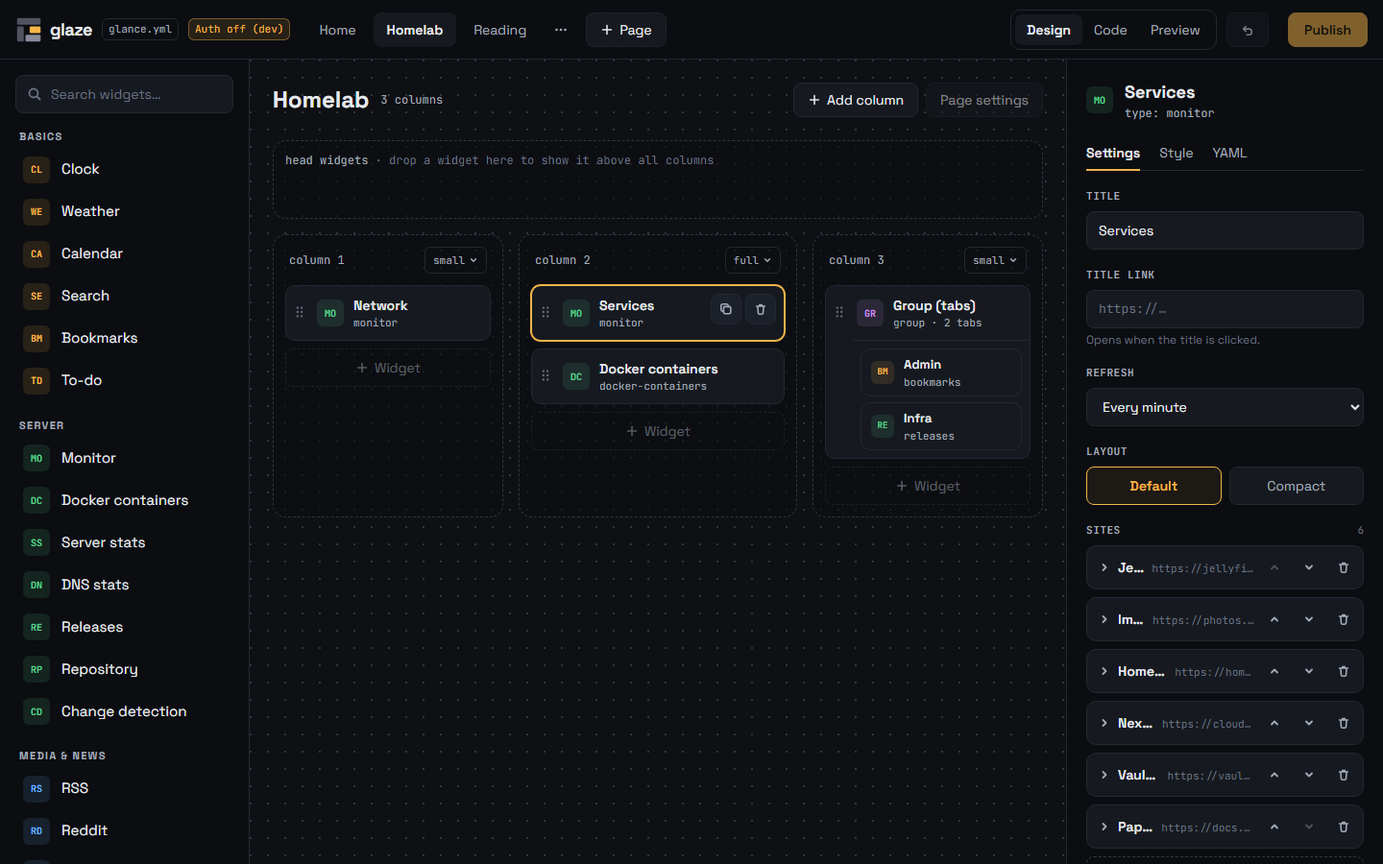
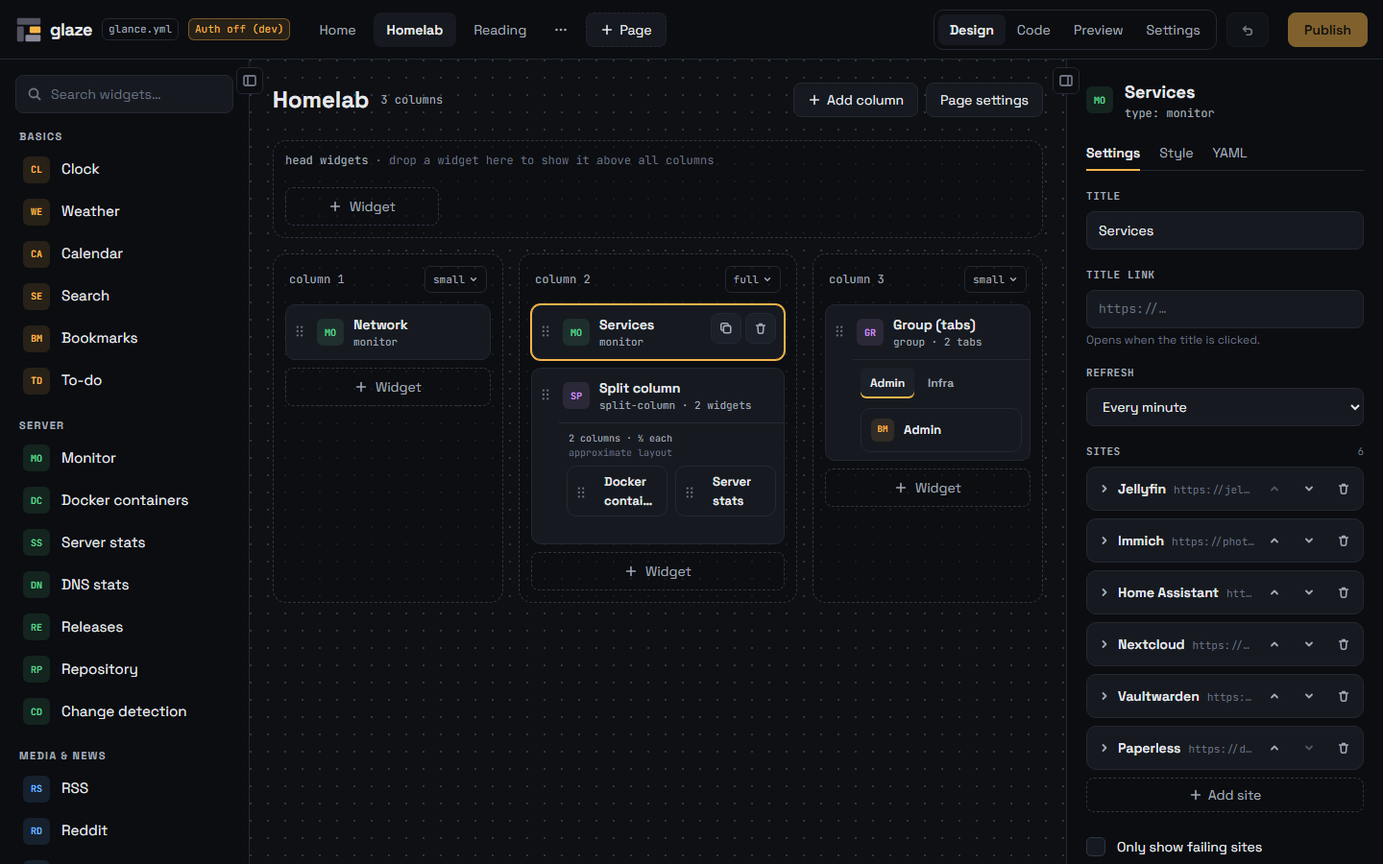
docs: phase 6, the complete visual editor
DESIGN.md gets phase 6 in the roadmap, the generated schemas under §8,
the Glance facts the generator relies on, widget width moved out of the
Extras, and the answer to the one-widget split-column question. README,
CHANGELOG and the development guide follow; the screenshots are re-taken
with a split-column in the demo config.

diff --git a/docs/DESIGN.md b/docs/DESIGN.md
@@ -1,6 +1,6 @@
 # Glaze: design document
 
-> Status: v0.1.0 · phases 0–5 done
+> Status: v0.1.2 · phases 0–6 done
 > Target: Glance **v0.8.7**
 
 ---
@@ -65,9 +65,16 @@ These facts come from the Glance v0.8.7 source (`github.com/glanceapp/glance`). 
 **Special widgets**
 
 - `group`: widgets as tabs. No `group` or `split-column` inside it. Children automatically get `hide-header`.
-- `split-column`: widgets side by side, with `max-columns` (minimum 2).
+- `split-column`: widgets side by side, with `max-columns` (Glance raises anything below 2 to 2). It draws `max-columns` equal-width columns and places the widgets as masonry (each in the shortest column), collapsing to one column on narrow screens. One widget in a split-column is valid: it takes 1/`max-columns` of the width.
 - `custom-api`: `url` (optional!), `method`, `headers`, `parameters`, `body`, `body-type`, `skip-json-validation`, `subrequests`, `options`, `template`, `frameless`. Glance waits at most 5 seconds for a response (not configurable). Templates have functions such as `now`, `offsetNow`, `parseTime`, `formatTime`, `sortByTime`, `findSubmatch`, `concat`, `add`/`sub`/`mul`/`div`/`mod` and `.Options.StringOr`.
 - `docker-containers`: `containers:` sets labels per container name (icon, description, url…) without touching Docker labels.
+
+**Defaults and checks that live in code, not in struct tags** (examples; the generator in §8 reads them)
+
+- Most defaults and enum checks are in each widget's `initialize()`: e.g. `limit <= 0` becomes 15, `sort-by` outside `top`/`new`/`best` becomes `top`, a missing `location` is an error.
+- dns-stats: an empty `service` is an error in v0.8.7 (the docs name `pihole` as the default).
+- iframe: a missing `height` ends up as 50 px (the docs say 300).
+- `glance password:hash` uses bcrypt with Go's default cost (10) and refuses passwords under 6 characters; `glance secret:make` prints 64 random bytes as standard base64. User names need at least 3 characters.
 
 **Other capabilities**
 
@@ -122,7 +129,7 @@ These facts come from the Glance v0.8.7 source (`github.com/glanceapp/glance`). 
 
 ### v0.2
 
-- All widgets, with forms generated automatically from the Glance source (§8).
+- All widgets, with forms generated automatically from the Glance source (§8). **Done in phase 6** (below).
 - Library of custom CSS presets (for example a "dark cards" style).
 - "Edit page" button in Glance via `document.head`.
 - Undo/redo and a version history (`.glaze/history/`).
@@ -133,22 +140,33 @@ These facts come from the Glance v0.8.7 source (`github.com/glanceapp/glance`). 
 - Templates ("Calm", "Homelab", "Media").
 - Secrets management: keys as `${VAR}` in a `.env` file, never as plain text in the YAML.
 
+### Phase 6: the complete visual editor (done)
+
+Nothing requires YAML any more; the code view stays as an escape hatch.
+
+- **Forms for every option** Glance v0.8.7 reads: all 28 widget types (`@glaze/schemas`, §8), page settings in the inspector, and a Settings view for the global sections (server, login, document head, branding, theme with presets). Unknown keys are kept and listed under "Other options".
+- **Glance's login** from the Settings view: users, passwords stored as bcrypt `password-hash` (Glance's `password:hash` when available, otherwise bcrypt at Glance's cost), and a secret key made like `glance secret:make`.
+- **Widget width** through `split-column` (moved here from the Extras): drop a widget on the left or right edge of another to put them side by side; a selected widget in a split-column has a handle that snaps to ½ / ⅓ / ¼ (`max-columns` 2 / 3 / 4); the Style tab has the same as buttons. Every widget in a split-column shares the width (Glance draws equal columns), and the editor says so. A split-column left with one widget after a drag is dissolved, with a notice that can undo that. No split-columns inside a group or in head widgets, and no resizing inside a group.
+- **Column width:** dragging the edge between page columns switches `small` ↔ `full` where Glance's rule (1 or 2 full columns) allows it, and says why when it doesn't.
+- **Drag & drop without flicker:** the drop indicator is drawn over the lists (never in the layout) from measured rects, with hysteresis around midpoints and list edges.
+- **Resizable, collapsible side panels**, remembered per browser.
+- **Plain-language validation:** a missing required option blocks Publish with a sentence ("Weather needs a location") instead of Glance's raw error.
+
 ### Extras (final phase)
 
 Three bigger tools that build on the editor. Each one still compiles down to plain Glance config (YAML + one CSS file), so principle 3 holds: nothing Glaze makes needs Glaze to keep working.
 
-**1. Widget size: width and height inside a column**
+**1. Widget height inside a column**
 
-Glance has no size options per widget (§4), so Glaze translates sizes into things Glance does understand:
+Glance has no size options per widget (§4). Width is done (through `split-column`, phase 6); height is translated into something Glance does understand:
 
-- **Width** → `split-column`. Dragging a widget's right edge snaps to _full / ½ / ⅓_ of the column. Glaze then wraps the widget and its neighbour(s) in a `split-column` with the matching `max-columns`, or unwraps it again when the widget goes back to full width. The canvas shows the snap points while dragging.
 - **Height** → `css-class` + generated CSS. Dragging the bottom edge snaps to _auto / S / M / L / XL_ (or a custom px value in the inspector). Glaze adds a class such as `glaze-h-320` to the widget's `css-class` (keeping any classes that were already there) and writes the rule to a **Glaze-managed CSS file** (`assets/glaze.css`, linked through `theme.custom-css-file` or appended to an existing custom CSS file between `/* glaze:start */ … /* glaze:end */` markers):
 
   ```css
   .glaze-h-320 .widget-content { height: 320px; overflow-y: auto; }
   ```
-- Rules: no resizing inside `group` (tabs share one height), `split-column` keeps Glance's limits, and unused generated classes are cleaned up on Publish.
-- The inspector's Style tab gets the same controls (width segmented control, height select + px input) for keyboard users.
+- Rules: no resizing inside `group` (tabs share one height), and unused generated classes are cleaned up on Publish.
+- The inspector's Style tab gets the same control (height select + px input) for keyboard users, next to the width buttons from phase 6.
 
 **2. Widget builder**
 
@@ -197,7 +215,7 @@ Like the theme generators of daisyUI or shadcn/ui, but for Glance's theme option
 2. **Code + live preview:** the YAML editor on the left with file tabs (`glance.yml`, `custom.css`, `design.js`), syntax highlighting and inline errors ("unknown option `stlye`: did you mean `style`? [Fix]"). Live preview on the right with a desktop/phone toggle. Clicking a widget in the preview jumps to it in the code.
 3. **Users:** list of users with role, visible pages and the status of their Glance instance. Detail panel with username, password, a checkbox per page, a starting template and "Edit layout".
 4. **Button in Glance:** an "Edit page" pill next to the status label, with a tooltip. Opens Glaze directly on that page.
-5. **Widget size (in the editor):** a selected widget gets resize handles on its right and bottom edges. While dragging, snap lines show ½ / ⅓ width and S–XL height, with a small label ("½ · 320px").
+5. **Widget size (in the editor):** a selected widget in a split-column has a handle on its right edge that snaps to ½ / ⅓ / ¼ with a label ("⅓ · 3 columns"); done in phase 6. A bottom handle for S–XL height follows with the Extras.
 6. **Widget builder:** same three-panel layout as the editor (block library, canvas, inspector with Data / Block / Template tabs) plus a JSON explorer under the Data tab. Top bar: widget name, column-width toggle, "Fetch sample", **Save** and "Add to page".
 7. **Theme editor:** preset list on the left, a sample Glance page in the middle, and color pickers + sliders on the right. Top bar: dark/light and desktop/phone toggles, Import, Export and **Publish**.
 
@@ -241,19 +259,19 @@ Browser
 
 ## 8. Tech stack
 
-| Part         | Choice                                  | Why                                                                               |
-| ------------ | --------------------------------------- | --------------------------------------------------------------------------------- |
-| Language     | TypeScript (strict)                     | Types catch mistakes in the config structure.                                     |
-| Frontend     | React 19 + Vite                         | Fast to develop; Vite produces a static build the Node server can serve.          |
-| Drag & drop  | `@dnd-kit/core` + `@dnd-kit/sortable`   | The standard for sortable drag & drop in React, accessible and keyboard-friendly. |
-| State        | Zustand                                 | Simple, little boilerplate. Undo/redo via middleware (`zundo`).                   |
-| YAML         | npm `yaml` (eemeli), **Document API**   | Keeps comments, anchors and order when editing (`doc.setIn([...], value)`).       |
-| Forms        | React Hook Form + Zod                   | One Zod schema per widget that both validates and drives the form.                |
-| Code editor  | CodeMirror 6 + `@codemirror/lang-yaml`  | Lighter than Monaco; per-line error markers.                                      |
-| Backend      | Node + Hono                             | Small and fast, TypeScript end to end.                                            |
-| Auth (Glaze) | Signed session cookie + scrypt hash     | Glaze writes config, so it always sits behind a login (see §9).                   |
-| Tests        | Vitest (+ Playwright for the editor)    | Above all: "parse → edit → serialize changes nothing else".                       |
-| Deployment   | Docker multi-stage build → single image | One container next to Glance; compose example in the README.                      |
+| Part         | Choice                                       | Why                                                                                |
+| ------------ | -------------------------------------------- | ---------------------------------------------------------------------------------- |
+| Language     | TypeScript (strict)                          | Types catch mistakes in the config structure.                                      |
+| Frontend     | React 19 + Vite                              | Fast to develop; Vite produces a static build the Node server can serve.           |
+| Drag & drop  | `@dnd-kit/core` + own drop geometry          | dnd-kit for sensors, keyboard and announcements; targets come from measured rects. |
+| State        | Zustand                                      | Simple, little boilerplate. Undo/redo via middleware (`zundo`).                    |
+| YAML         | npm `yaml` (eemeli), **Document API**        | Keeps comments, anchors and order when editing (`doc.setIn([...], value)`).        |
+| Forms        | React Hook Form + Zod, from `@glaze/schemas` | Generated schemas drive both the form and its Zod validation.                      |
+| Code editor  | CodeMirror 6 + `@codemirror/lang-yaml`       | Lighter than Monaco; per-line error markers.                                       |
+| Backend      | Node + Hono                                  | Small and fast, TypeScript end to end.                                             |
+| Auth (Glaze) | Signed session cookie + scrypt hash          | Glaze writes config, so it always sits behind a login (see §9).                    |
+| Tests        | Vitest (+ Playwright for the editor)         | Above all: "parse → edit → serialize changes nothing else".                        |
+| Deployment   | Docker multi-stage build → single image      | One container next to Glance; compose example in the README.                       |
 
 **Core idea: the document model**
 The UI works on a simplified model (pages → columns → widgets with an `id`). Every change is translated into a small edit of the YAML `Document`, never "regenerate the whole file". That's how comments survive.
@@ -282,8 +300,17 @@ interface PageNode {
 }
 ```
 
-**Generating widget schemas**
-A script (`scripts/generate-widget-schemas.ts`) reads the Glance Go source (`internal/glance/widget-*.go`), extracts each struct's fields with `yaml:"…"` tags and their Go types, and writes a JSON schema or Zod definition per widget. For a new Glance version you rerun the script and see what changed in the diff. Labels and help texts come from a separate translation file.
+**Generating widget schemas** (`@glaze/schemas`, phase 6)
+
+`pnpm schemas` (`scripts/generate-widget-schemas.ts`) downloads the Glance source of a tag (default `v0.8.7`; `--source <checkout>` reads a local one) and writes `packages/schemas/src/generated/`: one schema per widget type, the shared `widgetBase` fields, the page fields and the config sections, plus `GENERATED_FROM`. For a new Glance version you rerun it and read the diff.
+
+- **Parsing** (`scripts/schema-gen/go-parse.ts`): a small Go lexer (with Go's semicolon insertion) and parser for struct types, constants, package-level map literals, method bodies and the widget factory in `widget.go` (aliases such as `stocks` → `markets` included). Struct fields follow yaml.v3: the tag name wins, `-` and unexported fields are skipped, a field without a tag uses its lowercased name, and `,inline` merges fields (also from `pkg/sysinfo`).
+- **Custom YAML types** are handled in an explicit table (`CUSTOM_TYPES` in `build.ts`): `durationField` → duration, `hslColorField` → color, `customIconField` → icon, `proxyOptionsField` and `releaseRequest` → union of a string and an object, `queryParametersField` → map of string-or-list, `orderedYAMLMap` → map, `widgets` → child widgets, `template.HTML` → HTML code. Any other type with an `UnmarshalYAML` fails the generator.
+- **Code facts** (`analyze.ts`): defaults (`if x <= 0 { x = 15 }`), enums (`x != "a" && x != "b"`, `switch` on constants, lookups in map literals; a lookup followed by `!ok` means only those values), required options (`if x == "" { return errors… }`), and each widget's own title and refresh interval.
+- **Overrides** (`packages/schemas/overrides.ts`, hand-written): labels, help texts, enums the code doesn't spell out, defaults from the docs, field order, groups (Settings / Style tab), warnings, and the options a new widget starts with. The generator fails when an override names a field that doesn't exist, when an override's enum drops a value the code accepts, and when the code compares an option with fixed words but no override says what it is.
+- **CI** runs `pnpm schemas --check`: the committed files must match the source plus overrides.
+- **Uses:** the forms (one generic `SchemaForm`, with a few hand-made fields where they're clearly better, e.g. docker container labels), their Zod validation, the unknown-option check for every widget type, and plain-language errors for missing required options.
+- **Tests:** a fixture per widget type, a round-trip of every fixture through the form edits, a coverage test that every option is reachable in a form, and `glance config:validate` (Glance v0.8.7 in CI) on every fixture and every new widget.
 
 ---
 
@@ -317,8 +344,8 @@ A script (`scripts/generate-widget-schemas.ts`) reads the Glance Go source (`int
   ├─ apps/web/          React app (Vite)
   ├─ apps/server/       Node API (Hono)
   ├─ packages/core/     document model, YAML edits, layout rules (shared, well tested)
-  ├─ packages/schemas/  generated widget schemas (planned)
-  ├─ scripts/           generators (planned)
+  ├─ packages/schemas/  widget, page and config schemas generated from the Glance source
+  ├─ scripts/           generators (schemas, brand assets), release and screenshot scripts
   ├─ docker/            Dockerfile, compose example, smoke test
   └─ README.md, LICENSE, CONTRIBUTING.md
   ```
@@ -331,16 +358,17 @@ A script (`scripts/generate-widget-schemas.ts`) reads the Glance Go source (`int
 
 ## 11. Roadmap
 
-| Phase | Scope                                                         | Done when…                                                                                        | Status  |
-| ----- | ------------------------------------------------------------- | ------------------------------------------------------------------------------------------------- | ------- |
-| 0     | Project setup: monorepo, Vite + React + TS, Hono, lint/format | `pnpm dev` starts the app and the API                                                             | ✅ done |
-| 1     | `packages/core`: parse → model → edit → serialize, with tests | A large real-world `glance.yml` round-trips without changes                                       | ✅ done |
-| 2     | Editor: pages, columns, drag & drop widgets (dnd-kit)         | Moving a widget produces a correct YAML diff                                                      | ✅ done |
-| 3     | Inspector + forms for 10 widgets                              | Monitor/bookmarks fully editable without YAML                                                     | ✅ done |
-| 4     | Code view + live preview + validation                         | Errors show up on the right line                                                                  | ✅ done |
-| 5     | Auth, Docker image, README → **v0.1 release**                 | Installable next to Glance                                                                        | ✅ done |
-| 6     | "Edit page" button, generated schemas, multiple users         | See §5 (v0.2 / v0.3)                                                                              |         |
-| 7     | Extras: widget size, widget builder, theme editor             | A resized widget, a builder widget and a theme all survive a round-trip and render in real Glance |         |
+| Phase | Scope                                                                                                                              | Done when…                                                                                        | Status  |
+| ----- | ---------------------------------------------------------------------------------------------------------------------------------- | ------------------------------------------------------------------------------------------------- | ------- |
+| 0     | Project setup: monorepo, Vite + React + TS, Hono, lint/format                                                                      | `pnpm dev` starts the app and the API                                                             | ✅ done |
+| 1     | `packages/core`: parse → model → edit → serialize, with tests                                                                      | A large real-world `glance.yml` round-trips without changes                                       | ✅ done |
+| 2     | Editor: pages, columns, drag & drop widgets (dnd-kit)                                                                              | Moving a widget produces a correct YAML diff                                                      | ✅ done |
+| 3     | Inspector + forms for 10 widgets                                                                                                   | Monitor/bookmarks fully editable without YAML                                                     | ✅ done |
+| 4     | Code view + live preview + validation                                                                                              | Errors show up on the right line                                                                  | ✅ done |
+| 5     | Auth, Docker image, README → **v0.1 release**                                                                                      | Installable next to Glance                                                                        | ✅ done |
+| 6     | Complete visual editor: forms for every option, widget width, flicker-free drag & drop, resizable panels, page and global settings | Every Glance option has a form; every fixture and new widget passes `glance config:validate`      | ✅ done |
+| 7     | "Edit page" button, multiple users                                                                                                 | See §5 (v0.2 / v0.3)                                                                              |         |
+| 8     | Extras: widget height, widget builder, theme editor                                                                                | A resized widget, a builder widget and a theme all survive a round-trip and render in real Glance |         |
 
 ---
 
@@ -350,6 +378,6 @@ A script (`scripts/generate-widget-schemas.ts`) reads the Glance Go source (`int
 2. Multiple users: build route A (one Glance per user), or first try a pull request for route B in Glance?
 3. ~~Publish straight to `glance.yml`, or first to a draft (`glance.draft.yml`) with "Publish" as a separate step?~~ **Answered (phase 4–5): the draft lives in the browser.** Every edit (design, forms, code view, asset files) stays in the editor until Publish; nothing is written on the way, and there's no `glance.draft.yml`. Publish shows a review, the server validates the text again (YAML, layout, unknown options and `glance config:validate`) and only then writes `glance.yml` (temp file + rename), refusing broken YAML always and other errors unless forced. A changed file on disk is a conflict, not an overwrite.
 4. Use `$include` to put every page in its own file (clearer, fewer conflicts)?
-5. Widget size: when a widget becomes ½ width but has no neighbour to share the row with, should Glaze leave empty space (a `split-column` with one widget) or refuse the resize?
+5. ~~Widget size: when a widget becomes ½ width but has no neighbour to share the row with, should Glaze leave empty space (a `split-column` with one widget) or refuse the resize?~~ **Answered (phase 6): it depends on how you got there.** Choosing ½ / ⅓ / ¼ for a lone widget (Style tab) wraps it in a one-widget `split-column`: Glance renders that fine, the rest of the row stays empty, and the hint says to drop a widget beside it. Dragging the last-but-one widget out of a split-column is different: the one left behind didn't ask for a width, so the split-column is dissolved, with a notice that can undo it.
 6. Glaze-managed CSS: always a separate `assets/glaze.css`, or a marked block inside the user's existing custom CSS file? Glance accepts only one `custom-css-file`, so a separate file means adding an `@import` to the existing one.
 7. Widget builder preview: is a TypeScript renderer of our own block tree enough, or do we want a "render in Glance" preview (e.g. a hidden scratch page) for hand-edited templates?

diff --git a/docs/development.md b/docs/development.md
@@ -40,11 +40,11 @@ sh docker/smoke-test.sh glaze:smoke
 
 ## Keyboard shortcuts
 
-| Keys                     | Action                       |
-| ------------------------ | ---------------------------- |
-| `Ctrl/Cmd + S`           | Review and publish           |
-| `Ctrl/Cmd + 1 / 2 / 3`   | Design / Code / Preview view |
-| `Ctrl/Cmd + F` (in code) | Search in the file           |
+| Keys                       | Action                                  |
+| -------------------------- | --------------------------------------- |
+| `Ctrl/Cmd + S`             | Review and publish                      |
+| `Ctrl/Cmd + 1 / 2 / 3 / 4` | Design / Code / Preview / Settings view |
+| `Ctrl/Cmd + F` (in code)   | Search in the file                      |
 
 ## Project structure
 
@@ -54,12 +54,31 @@ glaze/
 │  ├─ web/        # React app (Vite)
 │  └─ server/     # API server (Hono): auth, reads and writes glance.yml
 ├─ packages/
-│  └─ core/       # shared types and the YAML document model
+│  ├─ core/       # shared types and the YAML document model
+│  └─ schemas/    # widget, page and config schemas generated from the Glance source
 ├─ docker/        # Dockerfile, compose example, smoke test
 ├─ docs/          # design document, guides, screenshots (+ demo config)
-├─ scripts/       # brand, release and screenshot scripts
+├─ scripts/       # schema generator, brand, release and screenshot scripts
 ├─ package.json
 └─ pnpm-workspace.yaml
+```
+
+## Widget schemas
+
+Every form comes from `packages/schemas`, generated from the Glance source:
+
+```bash
+pnpm schemas                    # download Glance v0.8.7 and regenerate
+pnpm schemas --source ../glance # use a local Glance checkout
+pnpm schemas --check            # CI: fail when the committed files are stale
+```
+
+Labels, help texts, enums the code doesn't spell out and the options a new widget starts with live in [`packages/schemas/overrides.ts`](../packages/schemas/overrides.ts); never edit `src/generated/` by hand. The generator fails when an override no longer matches Glance, so a new Glance version shows up as a clear list of things to update. See [DESIGN.md §8](DESIGN.md) for how it works.
+
+To run the integration test against Glance itself (CI does this with v0.8.7), point `GLANCE_BIN` at a Glance binary:
+
+```bash
+GLANCE_BIN=/path/to/glance pnpm --filter server test
 ```
 
 ## Screenshots
@@ -81,7 +100,7 @@ The live preview shot (`code-preview.png`) needs Glance: set `GLANCE_BIN` to a G
 | Frontend           | React 19, TypeScript, Vite, Tailwind CSS                          |
 | Drag & drop        | dnd-kit                                                           |
 | State              | Zustand                                                           |
-| Forms & validation | React Hook Form + Zod                                             |
+| Forms & validation | React Hook Form + Zod, generated from `@glaze/schemas`            |
 | Code editor        | CodeMirror 6                                                      |
 | YAML               | [`yaml`](https://eemeli.org/yaml/) (Document API, keeps comments) |
 | Server             | Node.js + Hono, bundled with esbuild                              |

diff --git a/CHANGELOG.md b/CHANGELOG.md
@@ -6,6 +6,26 @@ and this project adheres to [Semantic Versioning](https://semver.org/spec/v2.0.0
 
 ## [Unreleased]
 
+A complete visual editor: every option Glance v0.8.7 knows can be set without touching YAML.
+
+### Added
+
+- **A form for every widget.** All 28 Glance widget types (custom-api, server-stats, dns-stats, videos, …) have a form, generated from Glance's own source by `pnpm schemas` into the new `@glaze/schemas` package, with hand-written labels, help texts and groups. New field types: icons with a source picker, HSL colors with a hex input, code editors for HTML and Go templates, "one of several forms" options and free-form values (custom-api `body`). Options Glance doesn't know are kept and listed under "Other options".
+- **custom-api editor:** request, headers, parameters, body, subrequests, options, and the template with highlighting and a cheat sheet of Glance's template functions.
+- **Widgets side by side.** Drop a widget on the left or right edge of another to put both in a `split-column`; drag the right edge of a widget in a split-column to ½, ⅓ or ¼ (or use the Width buttons in the Style tab). A split-column left with one widget is dissolved, with an undo.
+- **Column width by dragging** the edge between columns (small ↔ full, where Glance allows it).
+- **Page settings** in the inspector (click the page title): name, URL path (suggested and checked for clashes), width, navigation width and layout switches.
+- **Settings view** (Ctrl/Cmd+4) for the server, Glance's login (users with bcrypt password hashes, secret key), document head, branding and theme with presets.
+- **+ Widget menu** in every column and in the head widgets.
+- **Resizable and collapsible side panels**; the widths are remembered.
+- Groups show as tabs on the canvas; split-columns show their columns.
+
+### Changed
+
+- Drag & drop no longer flickers: the drop indicator is a line drawn over the widgets instead of a box between them, and a drop lands exactly where it shows.
+- Unknown-option warnings now cover every widget type, and a missing required option blocks Publish with a plain sentence ("Weather needs a location").
+- New widgets from the library start with valid example options instead of only a title.
+
 ## [0.1.2] - 2026-10-27
 
 ### Changed

diff --git a/README.md b/README.md
@@ -20,7 +20,8 @@ Drag, drop and configure your pages instead of hand-writing YAML.
 Glance is a fast, beautiful self-hosted dashboard, configured entirely through one `glance.yml`. Glaze runs next to it and gives you a visual editor on top of that same file:
 
 - **Drag & drop layout:** pages, columns and widgets, following Glance's own layout rules, so what you build is always something Glance can render.
-- **Forms instead of YAML:** click a widget and fill in a form. No more guessing option names or fighting indentation.
+- **Every Glance option has a form:** all 28 widget types, page settings and the global settings (server, login, branding, theme), generated from Glance's own source. No more guessing option names or fighting indentation.
+- **Widgets side by side:** drop a widget beside another and drag its edge to ½, ⅓ or ¼, the way Glance's `split-column` does it.
 - **Your YAML stays yours:** Glaze edits `glance.yml` in place and keeps your comments, anchors and ordering intact.
 - **Code view with live preview:** switch to the YAML at any time, with the real Glance next to it.
 - **Validation before writing:** YAML syntax, layout rules, unknown options with one-click fixes, and `glance config:validate` itself.
@@ -133,8 +134,8 @@ Anyone who can use Glaze can change your dashboard config, including the API key
 
 ## Roadmap
 
-- **Available:** the visual editor with drag & drop, forms for the 10 most used widgets, the code view with live preview, validation, and the Docker image with a login.
-- **Next:** a theme editor, an "Edit page" button in Glance, forms for every widget, widget sizes, and a widget builder.
+- **Available:** the visual editor with drag & drop, a form for every Glance option (widgets, pages, global settings, Glance's own login), widget widths through split-columns, the code view with live preview, validation, and the Docker image with a login.
+- **Next:** an "Edit page" button in Glance, widget heights, a theme editor, and a widget builder.
 - **Later:** multiple users, each with their own login.
 
 The details and the reasoning behind them are in [docs/DESIGN.md](docs/DESIGN.md).

diff --git a/docs/progress/phase-6.md b/docs/progress/phase-6.md
@@ -1,4 +1,4 @@
-# Phase 6: a complete visual editor
+# Phase 6: a complete visual editor ✅
 
 Goal: a user never has to touch YAML. Every option Glance v0.8.7 knows can be set through the UI,
 and everything the UI writes is valid for Glance. The YAML view stays as an escape hatch.
@@ -115,12 +115,13 @@ hand with a real mouse.
 - [x] Publish (0 errors, 0 warnings; the diff only touched the edited lines, comments and `${VARS}` kept)
 - [x] Glance renders it (split-column with `data-max-columns="3"`, new logo text)
 
-## 6i — Docs
+## 6i — Docs ✅
 
-- [ ] DESIGN.md: roadmap, widget width out of Extras, `@glaze/schemas` + generator under §8, §12 answer
-- [ ] README "Why Glaze?" and roadmap
-- [ ] CHANGELOG `[Unreleased]`
-- [ ] Screenshots re-taken and checked
+- [x] DESIGN.md: phase 6 in the roadmap (✅; "Edit page" button and multiple users are now phase 7, the Extras phase 8), widget width moved out of the Extras (height, widget builder and theme editor stay), a "Phase 6" features section, verified Glance facts (§4), `@glaze/schemas` and the generator under §8, repo layout, and the answer to §12.5
+- [x] README "Why Glaze?" ("every Glance option has a form", widgets side by side) and roadmap
+- [x] CHANGELOG `[Unreleased]`
+- [x] docs/development.md: Ctrl/Cmd+4, `pnpm schemas`, the Glance integration test
+- [x] Screenshots re-taken (`pnpm screenshots` with Glance v0.8.7) and checked; the demo config now has a split-column on the Homelab page
 
 ## Notes for the next session
 
